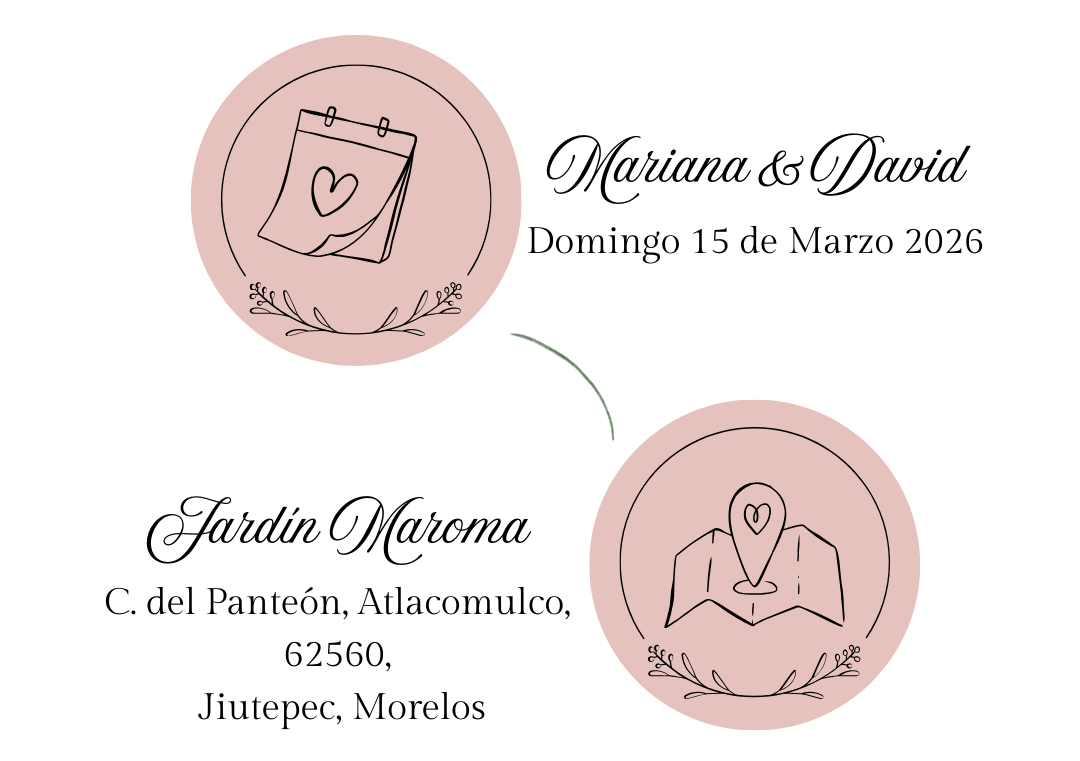
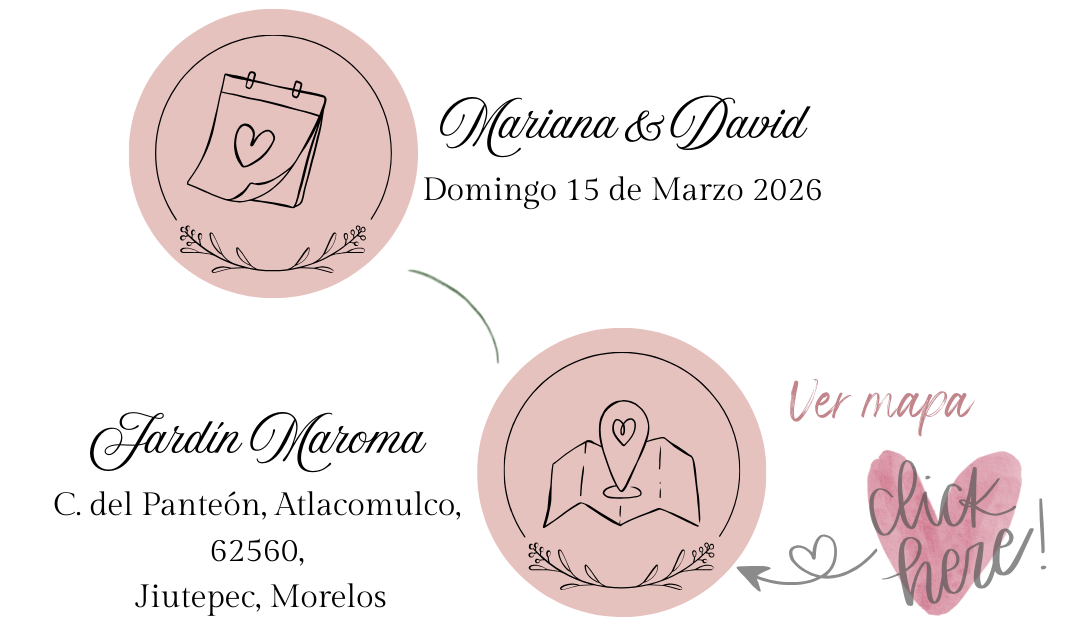
Mapa

diff --git a/index.html b/index.html
@@ -235,7 +235,11 @@
 <div class="title-wrapper">
   <u class="title">Fecha y Lugar</u>
 </div>
-<img src="images/feylu.png" class="responsive-image2" />
+<a href="https://www.google.com/maps?q=Jardin+Maroma+Jiutepec" target="_blank">
+    <img src="images/feylu.png" class="responsive-image2" />
+</a>
+
+
 
 <div class="hero2">
   <div class="title-wrapper">
